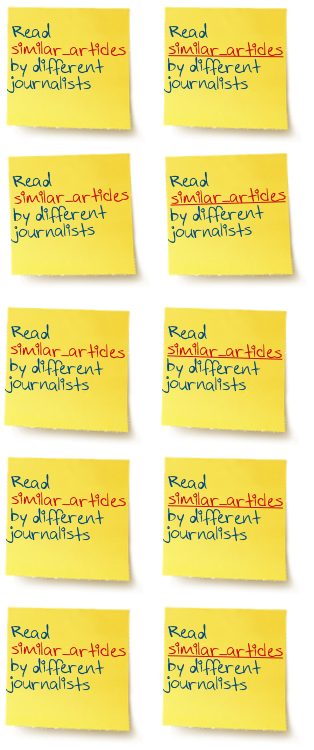
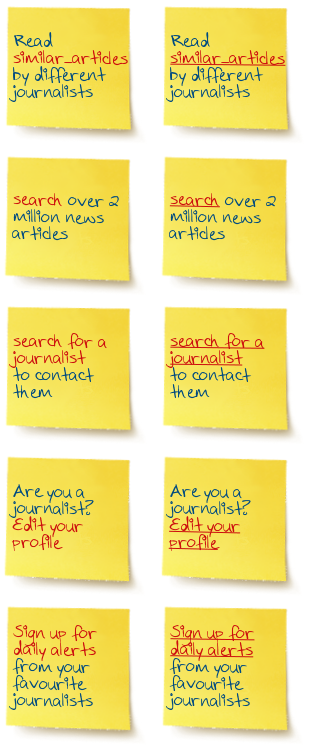
better front page postit notes. Tidied up blank search pages.

diff --git a/jl/web/style.css b/jl/web/style.css
@@ -690,23 +690,22 @@ ul.newList li a:focus {-moz-outline-style: none;}
 .box.front .nav a { outline: none; }
 
 .box.front .nav a.articles { left: 340px; top: 11px; } 
-.box.front .nav a.link { left: 125px; top: 125px; }
-.box.front .nav a.rate { left: 510px; top: 127px; }
-.box.front .nav a.search { left: 680px; top: 30px; }
-.box.front .nav a.subjects { left: 815px; top: 120px; }
+.box.front .nav a.edit-profile { left: 125px; top: 125px; }
+.box.front .nav a.search-articles { left: 510px; top: 127px; }
+.box.front .nav a.search-journos { left: 680px; top: 30px; }
+.box.front .nav a.alerts { left: 815px; top: 120px; }
 
 /* (autogenerated by gen_postits) */
-.box.front .nav a.articles { background-position: 0px -150px; }
-.box.front .nav a.articles:hover { background-position: -157px -150px; }
-.box.front .nav a.link { background-position: 0px -300px; }
-.box.front .nav a.link:hover { background-position: -157px -300px; }
-.box.front .nav a.rate { background-position: 0px -450px; }
-.box.front .nav a.rate:hover { background-position: -157px -450px; }
-.box.front .nav a.search { background-position: 0px -600px; }
-.box.front .nav a.search:hover { background-position: -157px -600px; }
-.box.front .nav a.subjects { background-position: 0px -750px; }
-.box.front .nav a.subjects:hover { background-position: -157px -750px; }
-
+.box.front .nav a.articles { background-position: 0px 0px; }
+.box.front .nav a.articles:hover { background-position: -157px 0px; }
+.box.front .nav a.search-articles { background-position: 0px -150px; }
+.box.front .nav a.search-articles:hover { background-position: -157px -150px; }
+.box.front .nav a.search-journos { background-position: 0px -300px; }
+.box.front .nav a.search-journos:hover { background-position: -157px -300px; }
+.box.front .nav a.edit-profile { background-position: 0px -450px; }
+.box.front .nav a.edit-profile:hover { background-position: -157px -450px; }
+.box.front .nav a.alerts { background-position: 0px -600px; }
+.box.front .nav a.alerts:hover { background-position: -157px -600px; }
 
 
 /* JOURNO PAGE */

diff --git a/jl/web/search.php b/jl/web/search.php
@@ -13,6 +13,10 @@ require_once '../../phplib/db.php';
 
 
 $s = search_getParams();
+
+
+
+
 if( $s['type']=='article' ) {
     search_articles();
 } else {
@@ -35,21 +39,22 @@ function search_journos() {
 
 ?>
 <div class="main search-results">
+<?php if( $query ) { ?>
   <div class="head">
     <b>Search Results:</b> <span class="count"><?= sizeof($journos) ?> journalists</span> like <span class="query"><?= h($query) ?></span>
   </div>
 
+<?php if( $journos ) { ?>
   <div class="body">
-<?php
-    if( $journos ) {
-?>
 <ul>
 <?php   foreach( $journos as $j ) { ?>
   <li><?= journo_link($j); ?></li>
 <?php   } ?>
 </ul>
-<?php } ?>
   </div>
+<?php } ?>
+
+<?php } // if( $query )?>
 
 <?php search_emit_onpage_form(); ?>
 
@@ -63,6 +68,18 @@ function search_articles()
 {
     $s = search_getParams();
     $query = $s['q'];
+    if( !$query ) {
+        page_header( "Search Articles", array('search_params'=>$s) );
+?>
+<div class="main search-results">
+<?php search_emit_onpage_form(); ?>
+</div> <!-- end main -->
+<?php
+        page_footer();
+        return;
+    }
+
+
     $num_per_page = $s['num'];
     $start = $s['start'];
     $sort_order = $s['sort_order'];
@@ -108,6 +125,7 @@ function search_articles()
 
 <?php } ?>
   </div>
+<?php if( $results ) { ?>
   <div class="body">
     <ul class="art-list">
 <?php
@@ -133,6 +151,7 @@ function search_articles()
         EmitPageControl( $query, $sort_order, $start, $num_per_page, $total );
 ?>
   </div>
+<?php } ?>
 
 <?php search_emit_onpage_form(); ?>
 </div> <!-- end main -->

diff --git a/jl/templates/frontpage.tpl.php b/jl/templates/frontpage.tpl.php
@@ -22,10 +22,10 @@
   <span class="youcan">At journa<i>listed</i> you can:</span>
   <ul class="nav">
    <li><a class="articles" href="#">articles</a></li>
-   <li><a class="link" href="#">link</a></li>
-   <li><a class="rate" href="#">rate</a></li>
-   <li><a class="search" href="#">search</a></li>
-   <li><a class="subjects" href="#">subjects</a></li>
+   <li><a class="edit-profile" href="/profile">edit profile</a></li>
+   <li><a class="search-articles" href="/search?type=article">search articles</a></li>
+   <li><a class="search-journos" href="/search?type=journo">search for journalists</a></li>
+   <li><a class="alerts" href="/alert">alerts</a></li>
   </ul>
 </div>
 
